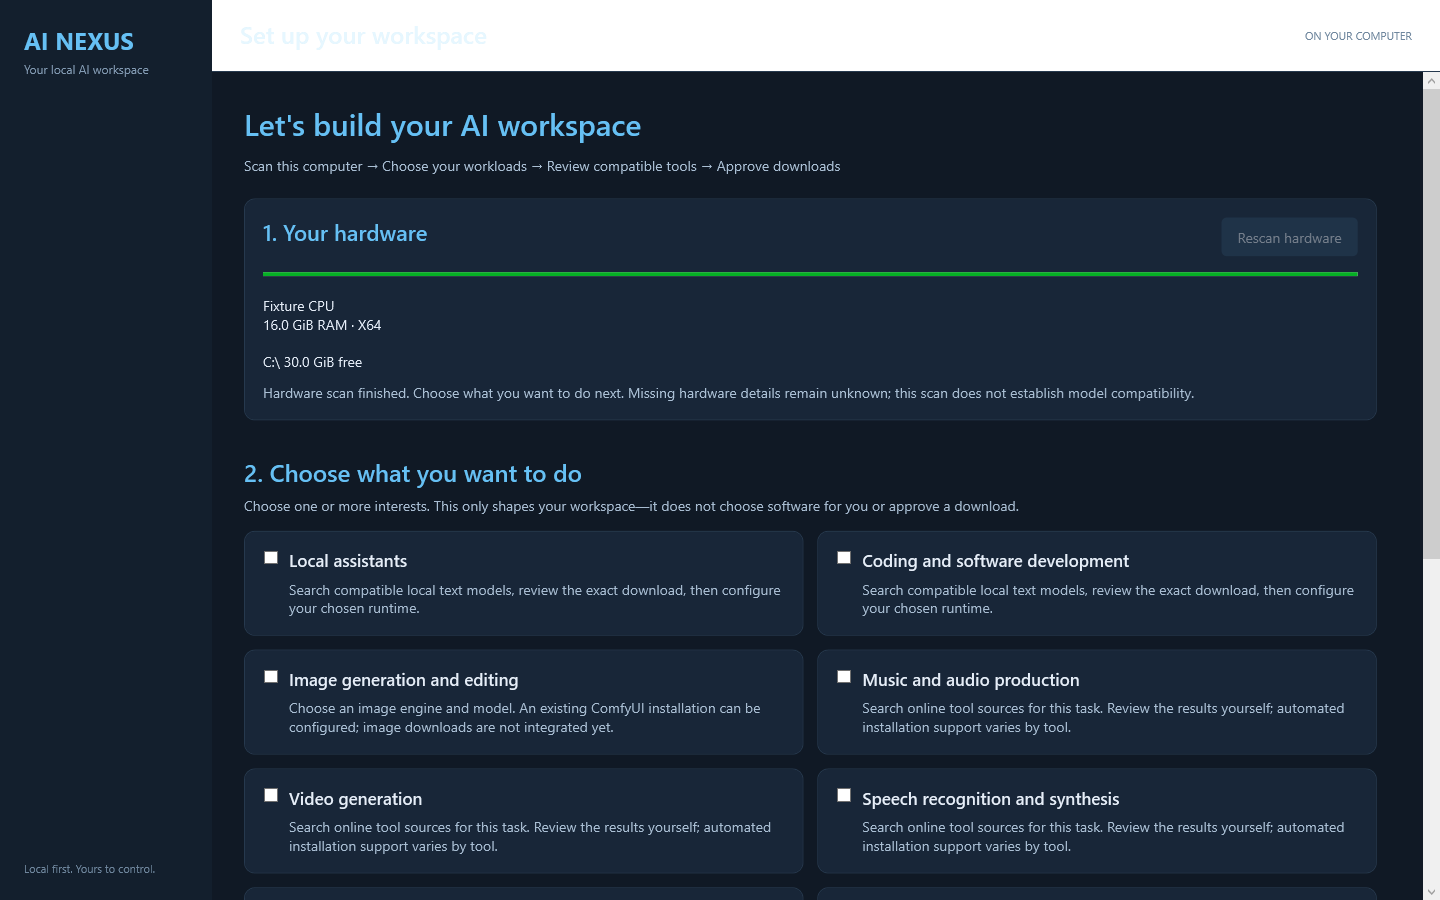
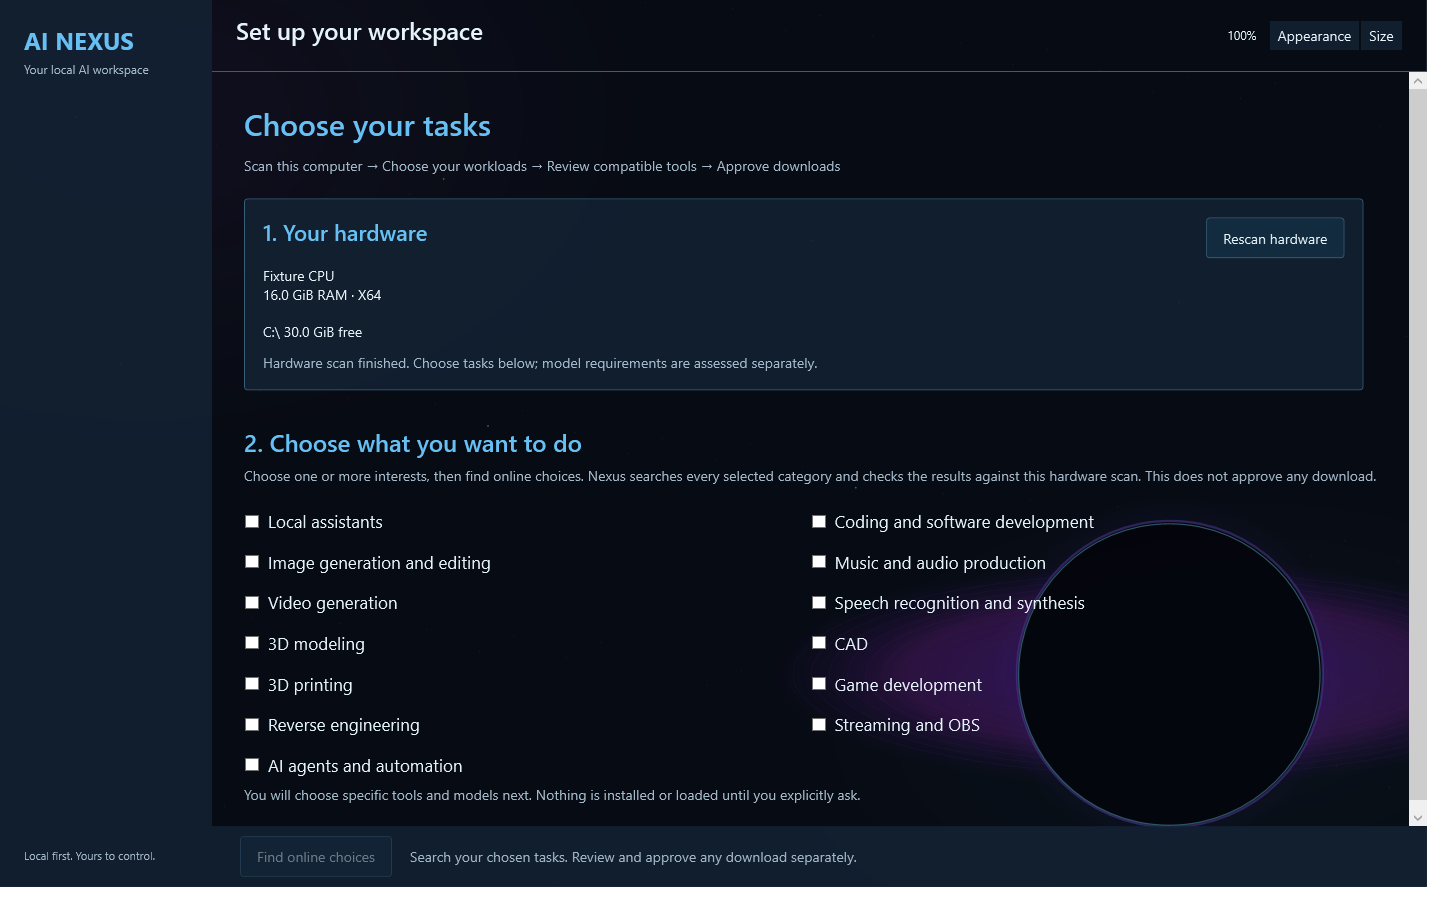
Prepare preview.6 release notes and fix maximum-size header layout

diff --git a/AINexus.App/MainWindow.xaml b/AINexus.App/MainWindow.xaml
@@ -109,7 +109,7 @@
                 </StackPanel></Expander>
             </StackPanel></ScrollViewer>
         </DockPanel></Border>
-        <Grid Grid.Column="1"><Grid.RowDefinitions><RowDefinition Height="72"/><RowDefinition/></Grid.RowDefinitions>
+        <Grid Grid.Column="1"><Grid.RowDefinitions><RowDefinition Height="Auto" MinHeight="72"/><RowDefinition/></Grid.RowDefinitions>
                         <Border BorderBrush="{DynamicResource NexusBorderBrush}" BorderThickness="0,0,0,1" Padding="24,14"><DockPanel>
                 <StackPanel DockPanel.Dock="Right" Orientation="Horizontal" VerticalAlignment="Center">
                     <TextBlock x:Name="UiScaleText" Text="100%" FontSize="{DynamicResource NexusFontSize12}" VerticalAlignment="Center" Margin="0,0,12,0" ToolTip="Shift + mouse wheel changes text and button size"/>

diff --git a/AINexus.Checks/AppearancePreview.cs b/AINexus.Checks/AppearancePreview.cs
@@ -38,6 +38,10 @@ internal static class AppearancePreview
             host.FontSize = subject.FontSize;
             await Dispatcher.Yield(DispatcherPriority.ApplicationIdle); host.UpdateLayout();
             Save(host, Path.Combine(directory, "retro-150-percent.png"));
+            subject.HandleUiScaleWheel(true, 360);
+            host.FontSize = subject.FontSize;
+            await Dispatcher.Yield(DispatcherPriority.ApplicationIdle); host.UpdateLayout();
+            Save(host, Path.Combine(directory, "retro-175-percent.png"));
             subject.ResetUiScale();
             subject.ApplyAppearanceSelection(NexusAppearanceMode.Standard, false);
             typeof(MainWindow).GetField("_workspaceConfigured", System.Reflection.BindingFlags.Instance | System.Reflection.BindingFlags.NonPublic)!.SetValue(subject, false);

diff --git a/docs/project-status.md b/docs/project-status.md
@@ -1,9 +1,10 @@
 # Current project status
 
-Release: **0.2.0-preview.5**, Windows x64 development preview, 2026-10-27.
+Release: **0.2.0-preview.6**, Windows x64 development preview, 2026-10-27.
 
 ## Working within tested limits
 
+- Simpler task/action buttons and a static black-hole backdrop. Standard starts each session; LCARS is optional and Shift-clicking LCARS opens hidden Retro. Shift-wheel or the Size menu scales text/buttons from 75% to 175%, with reset to 100%. Native title-bar dragging and all-edge/corner resizing remain available.
 - Actual CPU, RAM, GPU/driver and fixed-volume scans. Workload choices start unchecked and are not remembered.
 - Confirmed workloads initiate source searches. GGUF text-model artifacts have source links, pinned revisions, available sizes/hashes/licenses and local resource estimates. User selection is required; no model is selected automatically.
 - Supported GGUF acquisition: exact-plan approval, bounded transfer, byte/SHA-256 verification, matching existing-file reuse, receipts and no overwrite of a different file.
@@ -26,9 +27,10 @@ Release: **0.2.0-preview.5**, Windows x64 development preview, 2026-10-27.
 
 ## Validation and release identity
 
-- **839 default regression/native checks** passed on the development PC.
-- **Seven additional live checks** verified actual source discovery, explicit result selection, exact review/approval, installed-file hash/reuse, existing runtime configuration, real generation, two chat turns and owned-process cleanup. That run did not freshly download weights or install a new runtime.
+- **862 default regression/native checks** passed on the development PC.
+- **Seven additional live checks recorded for preview.5** verified actual source discovery, explicit result selection, exact review/approval, installed-file hash/reuse, existing runtime configuration, real generation, two chat turns and owned-process cleanup. That earlier run did not freshly download weights or install a new runtime; preview.6 appearance validation does not claim a fresh live model run.
 - Earlier live tests separately established a real model download and one ComfyUI generation path. They are specific model/runtime/hardware evidence, not all-model guarantees or recommendations.
+- Appearance checks cover palettes, hidden Retro selection, scaling/reset, native window settings and unchanged workload/approval state. Rendered previews were inspected at 100% and 150%; physical mouse/keyboard interaction is not established by those checks.
 - GitHub Windows CI is required for publication; its actual result is linked in release notes.
 
 The published ZIP's `PACKAGE-INFO.json` records the exact source commit and file hashes. The release tag and local active package must match that source commit and archive checksum. Historical packages and working branches are preserved rather than relabeled as current. Local paths, settings, machine logs, receipts and model weights are excluded from release assets.

diff --git a/README.md b/README.md
@@ -4,11 +4,11 @@
 
 AI Nexus scans the computer, shows workload categories, and searches live internet sources after the user asks. It does not choose a model, promote a provider, or install software automatically.
 
-### [Download for Windows x64](https://github.com/HopeCrushersInc/AINexus/releases/download/v0.2.0-preview.5/AINexus-0.2.0-preview.5-win-x64.zip)
+### [Download for Windows x64](https://github.com/HopeCrushersInc/AINexus/releases/download/v0.2.0-preview.6/AINexus-0.2.0-preview.6-win-x64.zip)
 
-**0.2.0-preview.5 · Development preview**
+**0.2.0-preview.6 · Development preview**
 
-[Release notes & checksums](https://github.com/HopeCrushersInc/AINexus/releases/tag/v0.2.0-preview.5) · [What works / what is unfinished](docs/project-status.md) · [Changelog](CHANGELOG.md) · [Discussions](https://github.com/HopeCrushersInc/AINexus/discussions)
+[Release notes & checksums](https://github.com/HopeCrushersInc/AINexus/releases/tag/v0.2.0-preview.6) · [What works / what is unfinished](docs/project-status.md) · [Changelog](CHANGELOG.md) · [Discussions](https://github.com/HopeCrushersInc/AINexus/discussions)
 
 ![Workload-first startup with unchecked categories](docs/assets/workload-choices.png)
 
@@ -37,6 +37,12 @@ AI Nexus scans the computer, shows workload categories, and searches live intern
 Image/video discovery currently retrieves tool repositories, not complete offline model packages with verified requirements. Those results appear under compatibility review, never as established hardware-fit matches. The UI reports when no fit can be established; it does not substitute a text-model memory rule.
 
 The new Library keeps saved source facts separate from private local receipts. Browsing and filtering do not contact the internet, rehash large models, install software or start engines. A receipt means an acquisition was recorded; current integrity and successful offline execution need their own checks. See [catalog design and storage](docs/catalog.md).
+
+## Appearance and controls
+
+The simpler Home screen uses task and action buttons over a black-hole backdrop. Standard is the startup appearance. Select **Appearance → LCARS** for the alternate palette; hold **Shift** while clicking LCARS to reveal the hidden Retro style. Appearance is session-only.
+
+Hold **Shift** and scroll the mouse wheel to resize text and buttons from **75% to 175%**. The **Size** menu also offers smaller, larger and reset to 100%. Ordinary scrolling still scrolls. Use the native title bar to drag the window and any edge or corner to resize it.
 
 ## Preview limits
 

diff --git a/CHANGELOG.md b/CHANGELOG.md
@@ -2,6 +2,14 @@
 
 User-visible changes are recorded here. Dates identify publication updates, not a promise that every feature was first implemented on that date.
 
+## 0.2.0-preview.6 — 2026-10-27 — Simpler controls and optional appearances
+
+- Simplified Home to task and action buttons, with a static black-hole backdrop. All 13 workload choices remain visible and unchecked; the search confirmation stays available below the scrollable choices.
+- Added session-only Standard and LCARS appearances. Hold Shift while clicking LCARS to reveal the hidden Retro appearance with cyan/magenta controls, stars and scanlines. Startup uses Standard.
+- Added Shift-wheel text/button scaling from 75% to 175%, plus a Size menu and reset to 100%. Sidebar and action widths scale with the controls. Ordinary scrolling retains its normal behavior.
+- Preserved native title-bar dragging and resizing from all edges and corners. Appearance and sizing do not select workloads, approve downloads, start engines or change GPU power settings.
+- Validation: 862 default regression/native checks, including appearance selection, startup choices, scaling bounds/reset, native window settings and unchanged approval state. Rendered previews cover Standard, LCARS, Retro, 150% and 175% sizing. The seven live model checks recorded for preview.5 remain earlier evidence; this appearance release does not claim a new live model download or chat run.
+
 ## 0.2.0-preview.5 — 2026-10-27 — User-selected setup and persistent catalog
 
 This release collects the local preview.3–preview.5 increments; preview.3 and preview.4 were not separate GitHub releases. Validation: 839 default regression/native checks and seven additional live checks through the generic selected-model workflow. The live run reused existing weights and runtime, completed two actual chat turns and stopped its owned server. Four-card identity/power controls are covered by fixtures; actual four-GPU model execution remains unverified. See [current status](docs/project-status.md) for implemented behavior and remaining gaps.

diff --git a/docs/releases.md b/docs/releases.md
@@ -1,6 +1,6 @@
 # Releases and portable Windows packages
 
-AI Nexus releases are development previews. Published previews and their exact assets are listed on the release page; the current source packaging example is **0.2.0-preview.5**. A version number in this guide does not mean that its release has already been uploaded; use the [GitHub Releases page](https://github.com/HopeCrushersInc/AINexus/releases) for actual published assets.
+AI Nexus releases are development previews. Published previews and their exact assets are listed on the release page; the current source packaging example is **0.2.0-preview.6**. A version number in this guide does not mean that its release has already been uploaded; use the [GitHub Releases page](https://github.com/HopeCrushersInc/AINexus/releases) for actual published assets.
 
 ## Run a published package
 
@@ -26,7 +26,7 @@ Building requires Windows, Git and the .NET 8 SDK. Run the repository's build an
 From the repository root:
 
 ```powershell
-./scripts/Publish-Portable.ps1 -Version '0.2.0-preview.5'
+./scripts/Publish-Portable.ps1 -Version '0.2.0-preview.6'
 ```
 
 Optional parameters:
